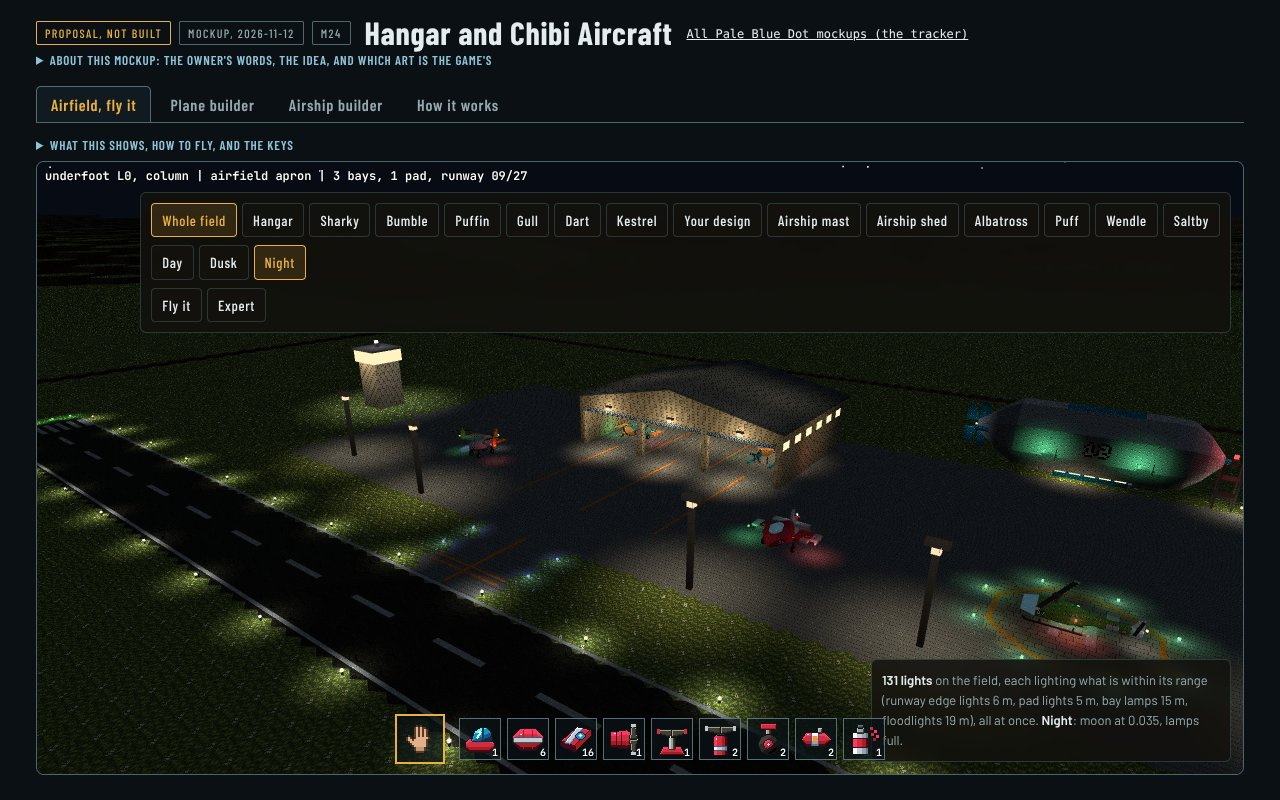
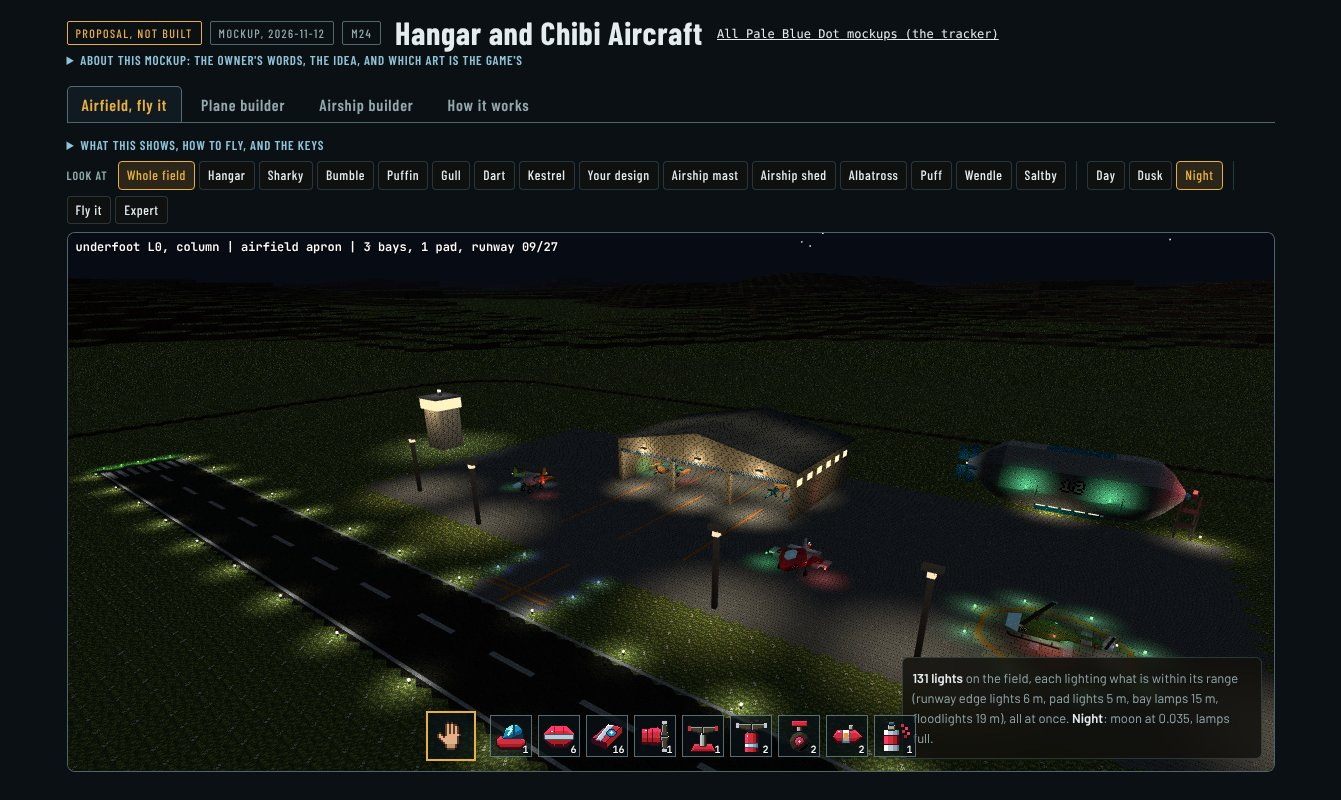
M24: airfield controls in a bar above the view, not over it
The owner, 2026-11-13: "position this controls better, its blocking the
view screen". Look at, time of day, Fly it and Expert sit in one bar
above the 3D view; the view fits the window below it. Flight test passes.

Claude-Session: https://claude.ai/code/session_01SztpvFkncDFbmhJsds55PW

diff --git a/docs/mockups/hangar.html b/docs/mockups/hangar.html
@@ -57,7 +57,13 @@ button{font:inherit}
 #yard:active{cursor:grabbing}
 .ov{position:absolute;background:rgba(18,17,13,.84);border:1px solid var(--line);border-radius:6px;backdrop-filter:blur(6px);-webkit-backdrop-filter:blur(6px);padding:10px;display:grid;gap:8px}
 .ov.tl{right:12px;top:30px;max-width:calc(100% - 24px);z-index:2}
-.stage.flying #shipSel{display:none}
+.ybar.flying #shipSel,.ybar.flying .ylab,.ybar.flying .ysep.s1{display:none}
+/* the airfield's controls sit in a bar above the view, never over it (owner, 2026-11-13: "its blocking the view screen") */
+.ybar{display:flex;flex-wrap:wrap;align-items:center;gap:6px 10px}
+.ybar .seg{gap:4px}
+.ybar .seg button{padding:3px 8px;font-size:13.5px}
+.ylab{font:600 12px var(--display);letter-spacing:.08em;text-transform:uppercase;color:var(--muted)}
+.ysep{width:1px;align-self:stretch;background:var(--line)}
 /* the game's HUD: the monospace debug line, top left, and the hotbar, bottom centre */
 .hudline{position:absolute;left:8px;top:6px;font:600 12px var(--mono);color:#fff;text-shadow:0 1px 0 #000,1px 0 0 #000;pointer-events:none}
 .hudbar{position:absolute;left:50%;bottom:10px;transform:translateX(-50%);display:flex;gap:6px;align-items:center;pointer-events:none}
@@ -211,7 +217,8 @@ details.sdesc p{max-width:none}
 .tabpanel section{gap:8px}
 .tabpanel.view>section>h2{position:absolute;width:1px;height:1px;overflow:hidden;clip:rect(0 0 0 0)}
 #tab-how{gap:36px}
-#tab-airfield .stage{height:clamp(380px,calc(100vh - 186px),900px)}
+#tab-airfield section{gap:8px}
+#tab-airfield .stage{height:clamp(360px,calc(100vh - var(--ybar,40px) - 196px),900px)}
 .builder.b3{gap:10px}
 #pNote,#aNote{color:var(--warn);font-size:13px}
 .builder.b3 .bpane{gap:8px;padding:10px}
@@ -251,16 +258,16 @@ details.sdesc p{max-width:none}
 <section aria-labelledby="s1">
   <h2 id="s1"><span class="n">1</span>The airfield</h2>
   <details class="sdesc"><summary>What this shows, how to fly, and the keys</summary><p>A hangar of three bays with its roller doors up, an apron, a 230 m runway, a helipad, a windsock and a little tower with its beacon. Sharky and Gull are in their bays; Puffin and Dart wait on the apron; Bumble sits on the pad; the game's own Kestrel is parked beside them for scale. Drag to look around, scroll or pinch to zoom. <b>Fly it</b> takes the craft you are looking at (or your design from the Plane builder tab) off the runway. The assists are on (decision 2a, "make this game easy to fly"): a plane starts at 70% throttle, rotates by itself at flying speed and climbs as the throttle sets; Shift and Ctrl (or R and F) the throttle, W descends and S climbs, A and D bank it into a turn up to 45&deg; (never past 60&deg;), and with the stick centred it flies level, trimmed, clear of the stall. <b>Expert</b> turns the assists off: then W and S are the elevator, A and D the ailerons, Q and E the rudder. A helicopter flies on collective (Shift and Ctrl), cyclic (W, A, S, D) and its tail rotor (Q and E). The country runs on for kilometres: hills, a coast with the sea beyond it to the north, the town of Wendle a little over a minute's flight to the east and the fishing town of Saltby on the coast to the west-north-west, both lit at night. Everything is solid: wheels on the ground are a landing, anything else hitting the ground, a building, a mast or a parked craft fast is a crash, and two seconds later you are back on the runway. Drag to look round it as it flies. At night every runway light, pad light, floodlight, hangar lamp and nav light lights what is near it, wherever the camera is, and the moon stays dim enough that they read.</p></details>
+  <div class="ybar" id="yardBar">
+    <span class="ylab">Look at</span><div class="seg" id="shipSel" role="group" aria-label="Look at"></div>
+    <span class="ysep s1"></span><div class="seg" id="timeSel" role="group" aria-label="Time of day">
+      <button data-t="day" aria-pressed="false">Day</button><button data-t="dusk" aria-pressed="false">Dusk</button><button data-t="night" aria-pressed="true">Night</button>
+    </div>
+    <span class="ysep"></span><div class="seg" role="group" aria-label="Flight"><button id="flyBtn" aria-pressed="false" title="Fly the craft you are looking at, or your design, off the runway">Fly it</button><button id="expertBtn" aria-pressed="false" title="Expert: no assists. The stick moves the surfaces directly, no bank or pitch limits, no auto-trim and no auto-rudder">Expert</button></div>
+  </div>
   <div class="stage">
     <canvas id="yard" aria-label="An airfield at night: a three-bay hangar with its doors open, five chibi aircraft, the Kestrel, a runway with edge lights, a helipad and a beacon tower."></canvas>
     <div class="loading" id="loading">Loading the airfield</div>
-    <div class="ov tl">
-      <div class="seg" id="shipSel" role="group" aria-label="Look at"></div>
-      <div class="seg" id="timeSel" role="group" aria-label="Time of day">
-        <button data-t="day" aria-pressed="false">Day</button><button data-t="dusk" aria-pressed="false">Dusk</button><button data-t="night" aria-pressed="true">Night</button>
-      </div>
-      <div class="seg" role="group" aria-label="Flight"><button id="flyBtn" aria-pressed="false" title="Fly the craft you are looking at, or your design, off the runway">Fly it</button><button id="expertBtn" aria-pressed="false" title="Expert: no assists. The stick moves the surfaces directly, no bank or pitch limits, no auto-trim and no auto-rudder">Expert</button></div>
-    </div>
     <div class="ov br" id="yardInfo"></div>
     <div class="ov fh" id="flyHud" hidden aria-live="off"></div>
     <div class="hudline" aria-hidden="true">underfoot L0, column | airfield apron | 3 bays, 1 pad, runway 09/27</div>
@@ -1850,6 +1857,7 @@ uniform float uLampOn;`).replace("#include <lights_fragment_end>", `#include <li
   TOWNS.forEach(t => VIEW[t.name.toLowerCase()] = [t.x, t.z, 150, t.h + 4]);
   const focus = id => { const [x, z, d, y] = VIEW[id]; cam.goal = {t: new THREE.Vector3(x, y ?? (id === "all" ? 2 : 2.2), z), d}; focused = id; info(); };
   const SEL = [["all", "Whole field"], ["hangar", "Hangar"], ["sharky", "Sharky"], ["bumble", "Bumble"], ["puffin", "Puffin"], ["gull", "Gull"], ["dart", "Dart"], ["kestrel", "Kestrel"], ["yours", "Your design"], ["mast", "Airship mast"], ["shed", "Airship shed"], ["albatross", "Albatross"], ["puff", "Puff"], ["wendle", "Wendle"], ["saltby", "Saltby"]];
+  { const yb = document.getElementById("yardBar"), setYb = () => { if (yb.offsetHeight) document.documentElement.style.setProperty("--ybar", yb.offsetHeight + "px"); }; new ResizeObserver(setYb).observe(yb); setYb(); }
   document.getElementById("shipSel").innerHTML = SEL.map(([id, n]) => `<button data-s="${id}" aria-pressed="${id === "all"}">${n}</button>`).join("");
   const selPress = id => document.querySelectorAll("#shipSel button").forEach(o => o.setAttribute("aria-pressed", o.dataset.s === id));
   document.querySelectorAll("#shipSel button").forEach(b => b.addEventListener("click", () => { endFly(); focus(b.dataset.s); selPress(b.dataset.s); }));
@@ -1897,7 +1905,7 @@ uniform float uLampOn;`).replace("#include <lights_fragment_end>", `#include <li
     for (let i = LAMPS.length - 1; i >= 0; i--) if (LAMPS[i].group === fly.c.g) LAMPS.splice(i, 1);
     if (fly.hide && CRAFT[fly.hide] && !fly.air) CRAFT[fly.hide].g.visible = true;
     if (fly.air && fly.hide && AIR[fly.hide]) AIR[fly.hide].g.visible = true;
-    fly = null; keys.clear(); hud.hidden = true; canvas.parentNode.classList.remove("flying"); kick(); flyBtn.textContent = "Fly it"; flyBtn.setAttribute("aria-pressed", "false"); info();
+    fly = null; keys.clear(); hud.hidden = true; canvas.parentNode.classList.remove("flying"), document.getElementById("yardBar").classList.remove("flying"); kick(); flyBtn.textContent = "Fly it"; flyBtn.setAttribute("aria-pressed", "false"); info();
   }
   function startFly(src) {
     if (src.air) return startAir(src);
@@ -1912,7 +1920,7 @@ uniform float uLampOn;`).replace("#include <lights_fragment_end>", `#include <li
     fly = {m, c, outer, st: newFlight(m, Object.assign(at, {hc: c.yc})), hide: src.hide, name: src.name, yawOff: 0, n: 0, home: at, crash: null};
     craftPoints(); fly.st.expert = expert; fly.st.pitMax = fly.pitMax;
     cam.goal = null; cam.dist = 22; cam.pitch = 0.22; focused = "fly";
-    hud.hidden = false; canvas.parentNode.classList.add("flying"); flyBtn.textContent = "Stop flying"; flyBtn.setAttribute("aria-pressed", "true");
+    hud.hidden = false; canvas.parentNode.classList.add("flying"), document.getElementById("yardBar").classList.add("flying"); flyBtn.textContent = "Stop flying"; flyBtn.setAttribute("aria-pressed", "true");
     const kind = m.kind === "heli" ? "a helicopter: Shift (or R) raises the collective, Ctrl (or F) lowers it; W and S tilt the disc forward and back, A and D sideways; Q and E the tail rotor." : m.kind === "vtol" ? "a tiltrotor: Shift (or R) and Ctrl (or F) set the power; it lifts on its rotors, and as it speeds up the nacelles tilt forward and W, S, A, D, Q, E move from the rotors to the surfaces." : (expert ? "a plane, assists off (Expert): Shift (or R) and Ctrl (or F) the throttle; at speed, S lifts the nose. W and S the elevator, A and D the ailerons, Q and E the rudder (and the nose wheel on the ground)." : "a plane, with the assists on: it starts at 70% throttle, rotates by itself at flying speed and climbs as the throttle sets; Shift (or R) and Ctrl (or F) the throttle, W descends and S climbs, A and D bank it into a turn (and steer on the ground), and centred it flies level. Expert turns the assists off.");
     document.getElementById("yardInfo").innerHTML = `<div><b>Flying ${src.name}</b>, ${kind} The surfaces push with the air, q S dCL arm, so on the ground at rest they do nothing.</div>`;
     pose(); kick(); return true;
@@ -1962,7 +1970,7 @@ uniform float uLampOn;`).replace("#include <lights_fragment_end>", `#include <li
     craftPoints();
     fly.st.ground = false;
     cam.goal = null; cam.dist = Math.max(42, cs.s.len * 1.7); cam.pitch = 0.24; focused = "fly";
-    hud.hidden = false; canvas.parentNode.classList.add("flying"); flyBtn.textContent = "Stop flying"; flyBtn.setAttribute("aria-pressed", "true");
+    hud.hidden = false; canvas.parentNode.classList.add("flying"), document.getElementById("yardBar").classList.add("flying"); flyBtn.textContent = "Stop flying"; flyBtn.setAttribute("aria-pressed", "true");
     document.getElementById("yardInfo").innerHTML = `<div><b>Flying ${src.name}</b>, an airship: W and S the engines, A and D the rudder, the up and down arrows the elevator; Shift drops ballast to climb, Ctrl vents gas to come down. The fins work with the air going past, so at a standstill they do nothing, and the wind (${Math.hypot(WIND[0], WIND[2]).toFixed(1)} m/s) carries it, so it crabs.</div>`;
     poseAir(); kick(); return true;
   }

diff --git a/docs/mockups/tracker.html b/docs/mockups/tracker.html
@@ -206,7 +206,7 @@ const MOCKUPS = [
     url: 'https://claude.ai/artifact/DLRzGBKMJzhhFdayrbCVdx', published: '2026-11-13', version: 4,
     summary: 'A drydock and hex-cell ships from rowing to battery; walk her deck, and sail to waypoints with a GPS that coaches the helm and the sail.' },
   { id: 'M24', batch: 'new', title: 'Hangar and Chibi Aircraft', change: 'vehicle-yards', page: 'docs/mockups/hangar.html',
-    url: 'https://claude.ai/artifact/HrLdbcwrwbAD7PN1KojKKu', published: '2026-11-13', version: 7,
+    url: 'https://claude.ai/artifact/HrLdbcwrwbAD7PN1KojKKu', published: '2026-11-13', version: 8,
     summary: 'Chibi planes, helicopters, VTOLs and airships on a painted 1 m grid, then fly them easily over kilometres of hex hills, towns and sea, crashing into what is solid.' },
 ];
 
